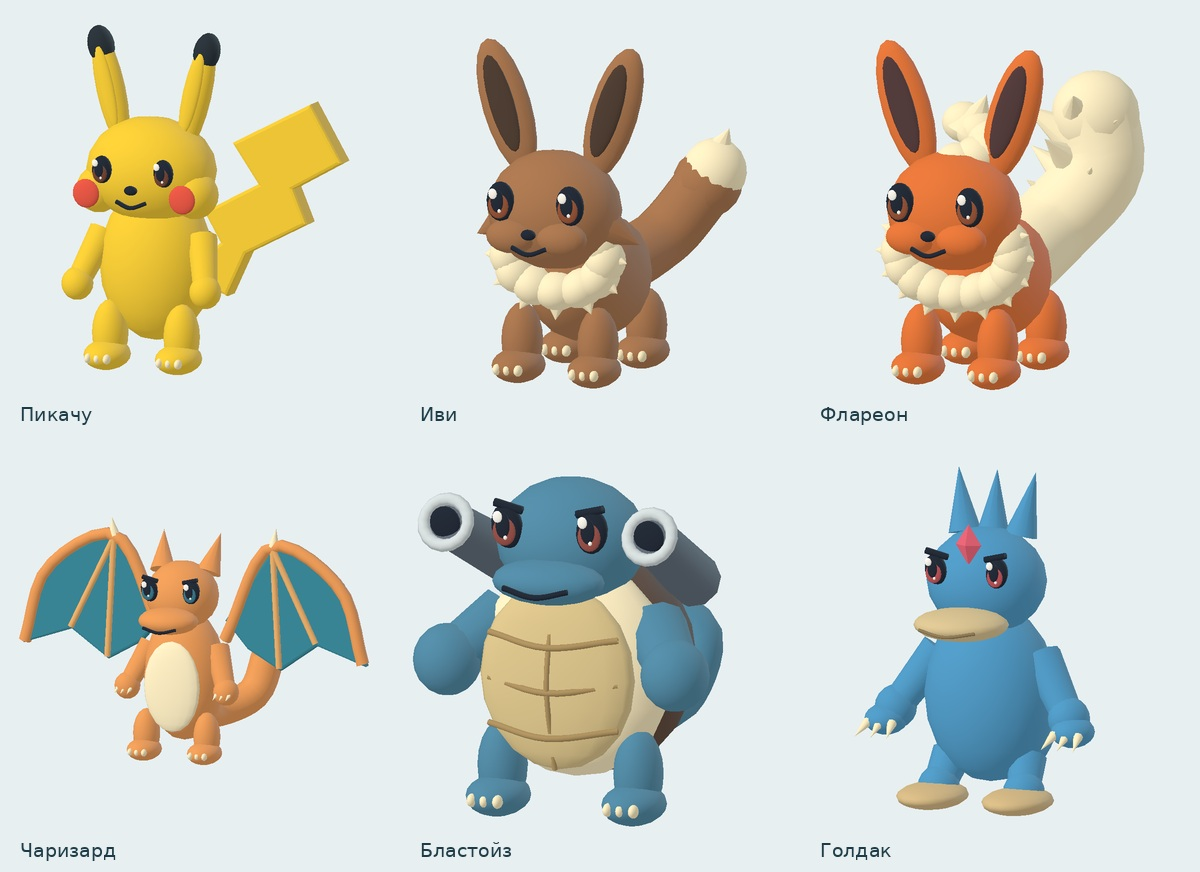
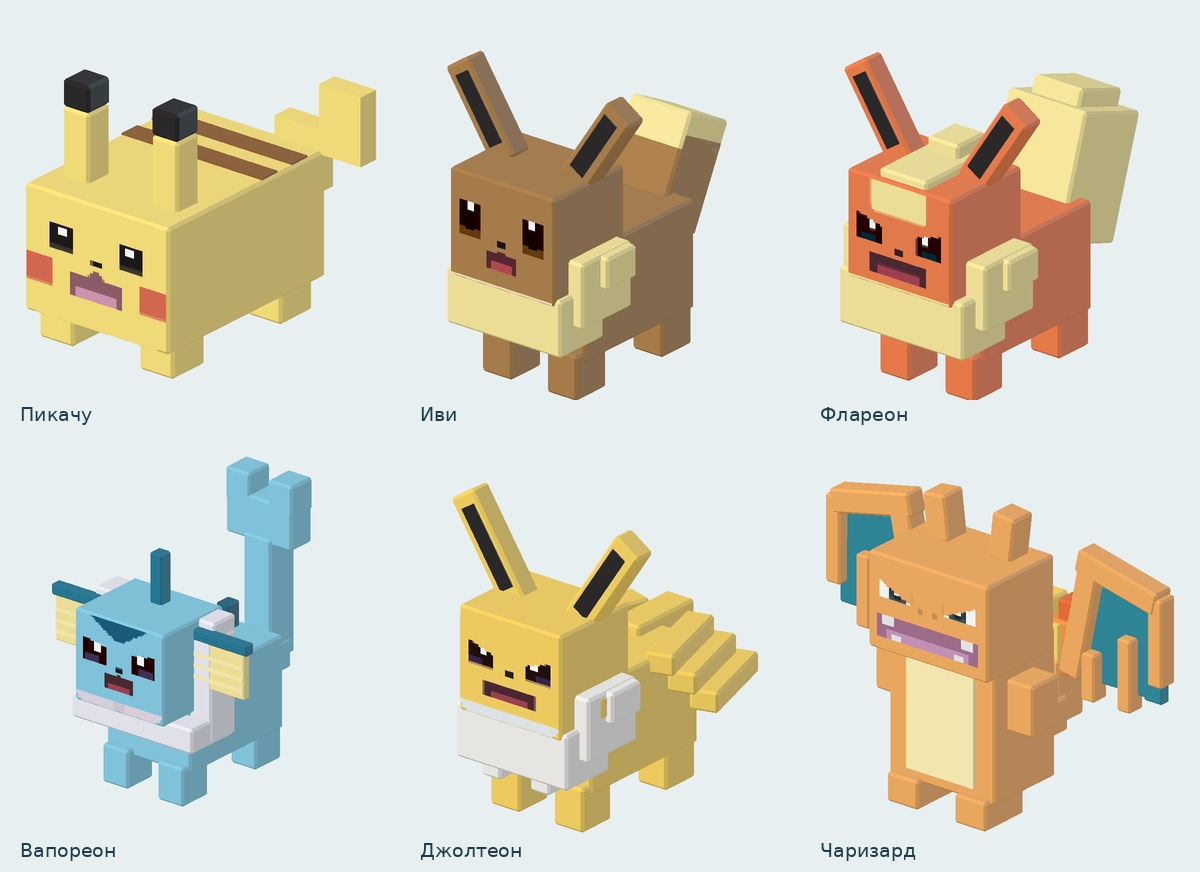
Prepare 0.6.0 Quest image-based cubic models and visual reference preview

diff --git a/README.md b/README.md
@@ -1,16 +1,16 @@
-# Pokeblox 0.5.0 — модели и эволюция
+# Pokeblox 0.6.0 — кубические модели по изображениям Quest
 
 ![Пример новых моделей](model-preview.jpg)
 
 Изображение выше — рендер фактической геометрии моделей отдельным программным рендерером; освещение в игре отличается.
 
-31 оригинальная объёмная модель с плавными силуэтами, глазами, деталями шерсти, панцирей, крыльев и плавников. Геометрия кэшируется и объединена в один draw call на покемона.
+31 кубическая 3D-модель, заново собранная по изображениям Pokémon Quest: плоские пиксельные лица, прямоугольные уши, ступенчатые воротники, панцири, крылья и хвосты. Это реконструкции по картинкам, а не извлечённые из игры файлы. Узкие фаски сохраняют кубический силуэт и дают мягкие блики. Один материал и один draw call на покемона; 348–1568 треугольников на форму. Источники — [MODEL-REFERENCES.md](MODEL-REFERENCES.md).
 
 Эволюция: отдельная 3D-сцена, цвет используемого камня, подъём, свечение, смена силуэта и раскрытие новой формы. Кнопка продолжения доступна после фактического завершения анимации; учтён prefers-reduced-motion. Камень и новая форма сохраняются один раз до сцены. Формат сохранений и аккаунты не меняются.
 
 # Покеблокс · Канто и Приливный остров
 
-Браузерная 3D-игра на русском языке: два острова, 31 форма покемонов, исследование, пошаговые бои, ловля и эволюции. Версия 0.5.0.
+Браузерная 3D-игра на русском языке: два острова, 31 форма покемонов, исследование, пошаговые бои, ловля и эволюции. Версия 0.6.0.
 
 Обновление по фотографии: оригинальные объёмные модели с отдельной геометрией видов, Приливный остров с 19 указанными покемонами и боссом Голдаком 45 уровня, смена бойца, 3D-анимация эволюции, горизонтальное мобильное управление и установка PWA. Переправа доступна в карте после 3 побед в Канто. Победа над боссом даёт значок, 5 конфет и 20 покеболов один раз. Голдака в команду можно получить эволюцией Псайдака. Мэджикарп не эволюционирует. Гравелер → Голем на 36 уровне — адаптация обмена для одиночной игры.
 

diff --git a/MODEL-REFERENCES.md b/MODEL-REFERENCES.md
@@ -1,0 +1,14 @@
+# Изображения для моделей Pokémon Quest
+
+В версии 0.6.0 модели заново построены вручную в `public/quest-models.mjs` по изображениям. Файлы OBJ, GLB и другие оригинальные модели Pokémon Quest не скачивались и не использовались. Это визуальные реконструкции; совпадение скрытых деталей и точной топологии не заявляется.
+
+Лица: изображения значков Pokémon Quest из [каталога Serebii](https://www.serebii.net/quest/pokemon.shtml), просмотренные 29 сентября 2026 года. Исходные URL имеют вид `https://www.serebii.net/quest/pokemon/025.png`; номера: 001–009, 025, 026, 054, 055, 060–062, 074–076, 086, 087, 090, 116–119, 129, 133–136. `quest-faces.mjs` содержит цветные прямоугольники, полученные из этих изображений с палитрой в 24 цвета и сеткой 48×48. Они становятся геометрией, а не отдельными сетевыми текстурами. Убраны фон и части силуэта, которые уже представлены объёмной геометрией.
+
+Силуэты и пропорции сверялись по следующим изображениям:
+
+- [Официальный промоарт, опубликованный Famitsu](https://www.famitsu.com/news/201807/06160479.html): стартовые покемоны, мордочки, пропорции головы и тела.
+- [Общий вид моделей, VidaExtra](https://www.vidaextra.com/rpg/pokemon-quest-supera-7-5-millones-descargas-su-version-para-switch-dispositivos-moviles): Пикачу, Иви, Бульбазавр, Чармандер, Сквиртл, Чаризард, Голем, Шелдер и другие.
+- [Изображение эволюций Иви, Altema](https://altema.jp/pokemonquest/eeveesinka): Флареон, Вапореон и Джолтеон.
+- [Изображение Райчу, PNGAAA](https://www.pngaaa.com/detail/164234): уши, хвост, руки и живот.
+
+Pokémon и Pokémon Quest принадлежат соответствующим правообладателям: Nintendo, Creatures, GAME FREAK, The Pokémon Company. Serebii и перечисленные страницы указаны как источники изображений; наличие изображений в открытом доступе не означает передачу прав на персонажей.
